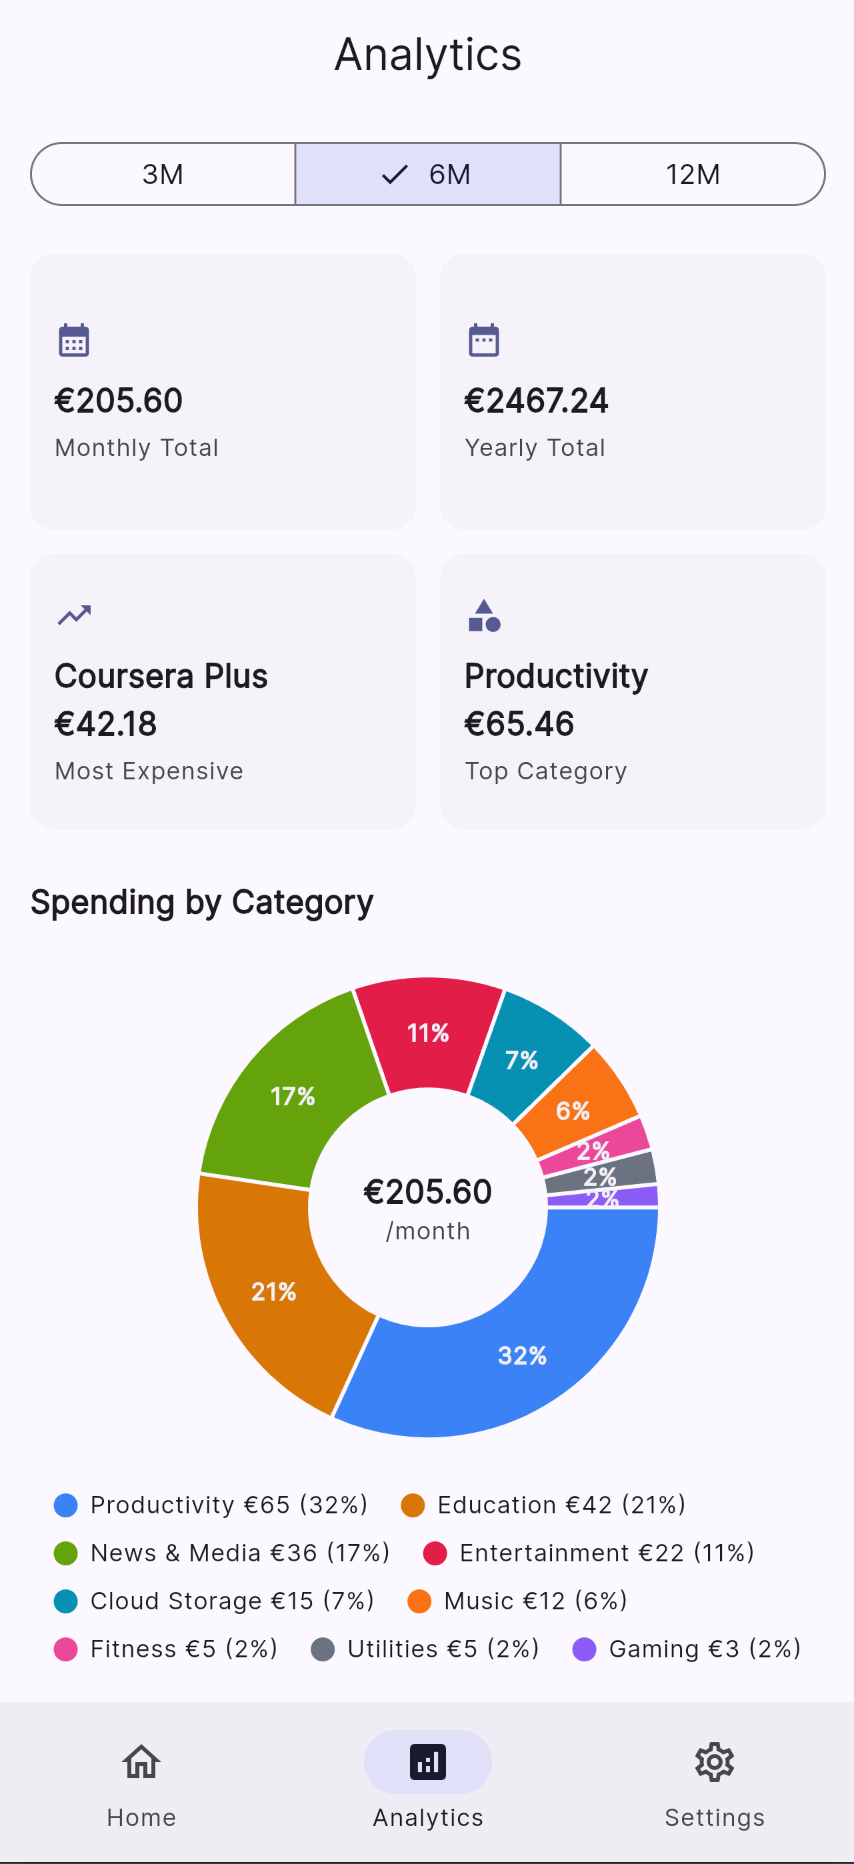
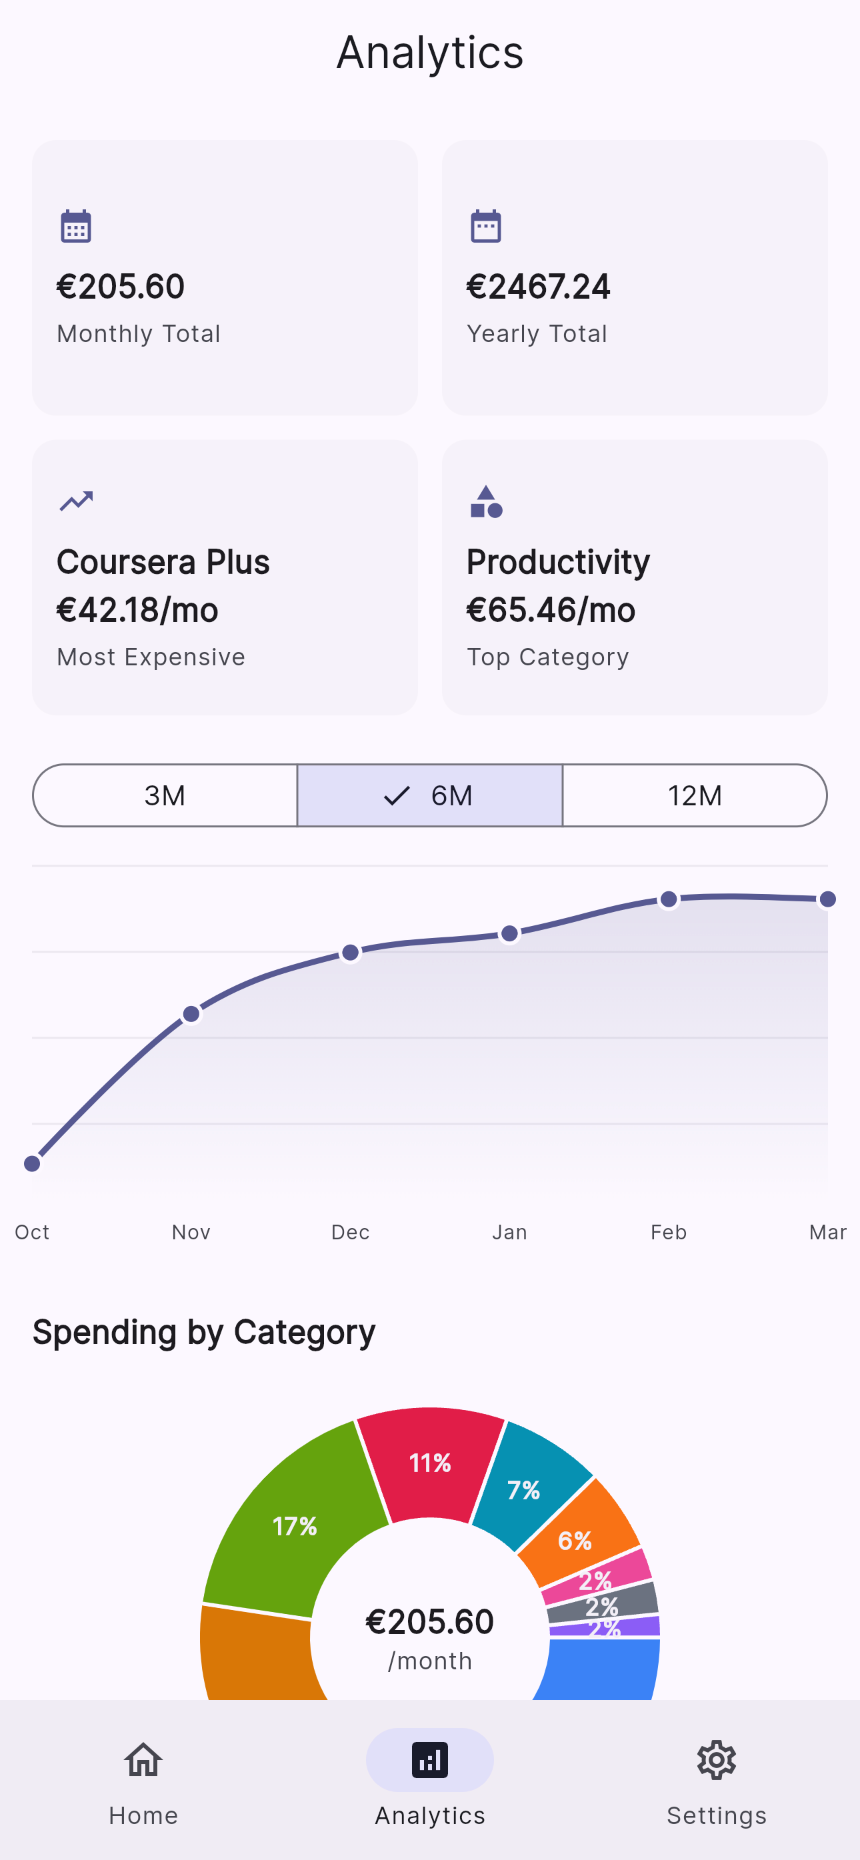
fix: v2.5.1 — Analytics UI Polish (#26)
* fix: polish analytics layout and clarify monthly values

- **statistics_cards.dart**: add /mo suffix to Most Expensive and Top
  Category subtitles to clarify values are monthly (e.g. €42.18/mo)
- **analytics_screen.dart**: reorder mobile/tablet layout to
  StatisticsCards → PeriodSelector → MonthlyTrendChart → CategoryChart,
  placing the trend chart next to the period filter that controls it
- **analytics_screen.dart**: reorder desktop layout to move
  MonthlyTrendChart directly below PeriodSelector (before CategoryChart)

* docs: add v2.5.1 Analytics Polish to roadmap

- **ROADMAP.md**: add v2.5.1 section with monthly value labels,
  reordered mobile/tablet layout, and reordered desktop layout

---------

diff --git a/lib/features/analytics/screens/analytics_screen.dart b/lib/features/analytics/screens/analytics_screen.dart
@@ -48,9 +48,11 @@ class _MobileLayout extends StatelessWidget {
       child: Column(
         crossAxisAlignment: CrossAxisAlignment.start,
         children: [
-          const PeriodSelector(),
-          const SizedBox(height: 24),
           const StatisticsCards(),
+          const SizedBox(height: 24),
+          const PeriodSelector(),
+          const SizedBox(height: 16),
+          const MonthlyTrendChart(),
           const SizedBox(height: 24),
           Text(
             'Spending by Category',
@@ -60,15 +62,6 @@ class _MobileLayout extends StatelessWidget {
           ),
           const SizedBox(height: 16),
           const CategoryChart(),
-          const SizedBox(height: 24),
-          Text(
-            'Monthly Trend',
-            style: textTheme.titleMedium?.copyWith(
-              fontWeight: FontWeight.bold,
-            ),
-          ),
-          const SizedBox(height: 16),
-          const MonthlyTrendChart(),
           const SizedBox(height: 24),
         ],
       ),
@@ -88,9 +81,11 @@ class _TabletLayout extends StatelessWidget {
         child: Column(
           crossAxisAlignment: CrossAxisAlignment.start,
           children: [
-            const PeriodSelector(),
-            const SizedBox(height: 24),
             const StatisticsCards(),
+            const SizedBox(height: 24),
+            const PeriodSelector(),
+            const SizedBox(height: 16),
+            const MonthlyTrendChart(),
             const SizedBox(height: 24),
             Text(
               'Spending by Category',
@@ -100,15 +95,6 @@ class _TabletLayout extends StatelessWidget {
             ),
             const SizedBox(height: 16),
             const CategoryChart(),
-            const SizedBox(height: 24),
-            Text(
-              'Monthly Trend',
-              style: textTheme.titleMedium?.copyWith(
-                fontWeight: FontWeight.bold,
-              ),
-            ),
-            const SizedBox(height: 16),
-            const MonthlyTrendChart(),
             const SizedBox(height: 24),
           ],
         ),
@@ -141,6 +127,8 @@ class _DesktopLayout extends StatelessWidget {
                 crossAxisAlignment: CrossAxisAlignment.start,
                 children: [
                   const PeriodSelector(),
+                  const SizedBox(height: 16),
+                  const MonthlyTrendChart(),
                   const SizedBox(height: 24),
                   Text(
                     'Spending by Category',
@@ -150,15 +138,6 @@ class _DesktopLayout extends StatelessWidget {
                   ),
                   const SizedBox(height: 16),
                   const CategoryChart(),
-                  const SizedBox(height: 24),
-                  Text(
-                    'Monthly Trend',
-                    style: textTheme.titleMedium?.copyWith(
-                      fontWeight: FontWeight.bold,
-                    ),
-                  ),
-                  const SizedBox(height: 16),
-                  const MonthlyTrendChart(),
                   const SizedBox(height: 24),
                 ],
               ),

diff --git a/lib/features/analytics/widgets/statistics_cards.dart b/lib/features/analytics/widgets/statistics_cards.dart
@@ -39,7 +39,7 @@ class StatisticsCards extends ConsumerWidget {
             ? stats.mostExpensiveSubscription!.name
             : '\u2014',
         subtitle: stats.mostExpensiveSubscription != null
-            ? '$symbol${stats.mostExpensiveAmount.toStringAsFixed(2)}'
+            ? '$symbol${stats.mostExpensiveAmount.toStringAsFixed(2)}/mo'
             : '',
       ),
       _StatCard(
@@ -49,7 +49,7 @@ class StatisticsCards extends ConsumerWidget {
             ? stats.topCategory!.category.label
             : '\u2014',
         subtitle: stats.topCategory != null
-            ? '$symbol${stats.topCategory!.monthlyAmount.toStringAsFixed(2)}'
+            ? '$symbol${stats.topCategory!.monthlyAmount.toStringAsFixed(2)}/mo'
             : '',
       ),
     ];

diff --git a/ROADMAP.md b/ROADMAP.md
@@ -36,6 +36,14 @@ Planned features and improvements for SubTracker.
 | Responsive analytics | Mobile full-width, tablet centered (700px), desktop 2-column layout     |
 | Accessibility        | Semantics on charts, tooltips on cards, accessible labels on controls   |
 
+## v2.5.1 — Analytics Polish (Done)
+
+| Feature                | Description                                                            |
+| ---------------------- | ---------------------------------------------------------------------- |
+| Monthly value labels   | Most Expensive and Top Category cards now show `/mo` suffix            |
+| Reordered mobile/tablet| Statistics cards first, then period filter + trend chart + donut chart  |
+| Reordered desktop      | Monthly trend chart placed directly below period selector              |
+
 ## v2.6.0 — Multi-user
 
 | Feature           | Description                             |
